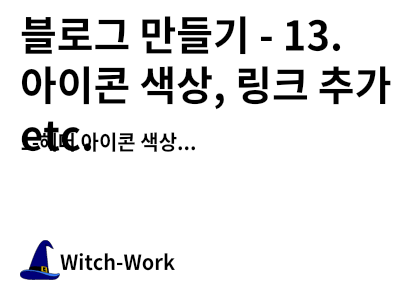
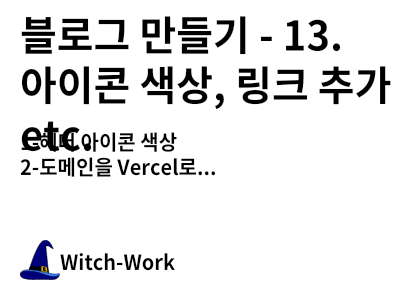
동적 import 삭제. 정적인 테마색상 로직으로

Changed region(s): [[0.03, 0.48, 0.54, 0.6]]

diff --git a/src/components/header/menu/toggler/index.tsx b/src/components/header/menu/toggler/index.tsx
@@ -15,15 +15,42 @@ const cancelIcon: {[key: string]: string} = {
   'pink':'/icons/icons8-cancel-pink.svg',
 };
 
+function hamburgerIconSrc(isDark: boolean, isPink: boolean) {
+  if (isDark) {
+    return hamburgerIcon['dark'];
+  }
+  else if (isPink) {
+    return hamburgerIcon['pink'];
+  }
+  else {
+    return hamburgerIcon['light'];
+  }
+}
+
+function cancelIconSrc(isDark: boolean, isPink: boolean) {
+  if (isDark) {
+    return cancelIcon['dark'];
+  }
+  else if (isPink) {
+    return cancelIcon['pink'];
+  }
+  else {
+    return cancelIcon['light'];
+  }
+}
+
 function Toggler({isMenuOpen, toggle}: {isMenuOpen: boolean, toggle: () => void}) {
-  const {theme} = useTheme();
+  const {resolvedTheme} = useTheme();
+
+  const isDark = resolvedTheme === 'dark';
+  const isPink = resolvedTheme === 'pink';
   
   return (
     <button className={styles.button} onClick={toggle}>
       <Image
         src={isMenuOpen ?
-          cancelIcon[theme || 'light'] :
-          hamburgerIcon[theme || 'light']
+          cancelIconSrc(isDark, isPink) :
+          hamburgerIconSrc(isDark, isPink)
         }
         alt='Menu' 
         width={32} 

diff --git a/src/components/header/search/index.tsx b/src/components/header/search/index.tsx
@@ -10,13 +10,28 @@ const searchIcon: {[key: string]: string}={
   'pink':'/icons/icons8-search-pink.svg',
 };
 
+function searchIconSrc(isDark: boolean, isPink: boolean) {
+  if (isDark) {
+    return searchIcon['dark'];
+  }
+  else if (isPink) {
+    return searchIcon['pink'];
+  }
+  else {
+    return searchIcon['light'];
+  }
+}
+
 const Search = () => {
-  const { theme } = useTheme();
+  const {resolvedTheme} = useTheme();
+
+  const isDark = resolvedTheme === 'dark';
+  const isPink = resolvedTheme === 'pink';
 
   return (
     <Link href='/posts' className={styles.search}>
       <Image 
-        src={searchIcon[theme || 'light']} 
+        src={searchIconSrc(isDark, isPink)} 
         alt='Search' 
         width={32} 
         height={50} 

diff --git a/src/components/header/menu/index.tsx b/src/components/header/menu/index.tsx
@@ -1,12 +1,9 @@
-
-import dynamic from 'next/dynamic';
 import { useRouter } from 'next/router';
 import { useEffect, useState } from 'react';
 
 import Dropdown from './dropdown';
 import styles from './styles.module.css';
-
-const Toggler = dynamic(() => import('./toggler'), { ssr: false });
+import Toggler from './toggler';
 
 interface PropsItem{
   title: string;

diff --git a/posts/dev/blog-remake-13/index.md b/posts/dev/blog-remake-13/index.md
@@ -70,3 +70,8 @@ function Menu({navList}: {navList: PropsItem[]}) {
 
 export default Menu;
 ```
+
+# 2. 도메인을 Vercel로
+
+이전에 배포를 vercel로 하도록 했다. 따라서 `witch.work` 도메인을 이쪽으로 향하게 해보자.
+
